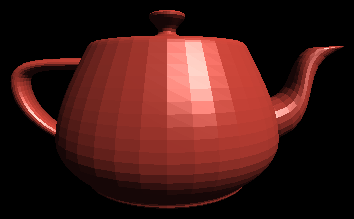
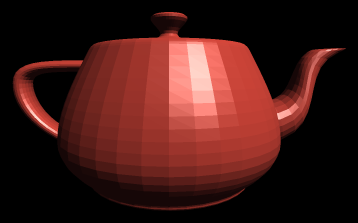
Regenerate README sample images with --aa 3
Claude-Session: https://claude.ai/code/session_01QgaXm8EeMVXvaZBWqVYRvN

diff --git a/README.md b/README.md
@@ -9,7 +9,7 @@ python main.py [normals|flat|gouraud|phong] [--mesh teapot.obj] [--size 512] [--
 ```
 Without `--out` the image opens in a window.
 
-`--aa N` renders at N times the resolution and averages down (supersampling). Edges get smooth, but render time grows as N².
+`--aa N` renders at N times the resolution and averages down (supersampling). Edges get smooth, but render time grows as N². Sample images below use `--size 512 --aa 3`, cropped.
 
 | Flat | Blinn-Phong | Normals |
 |:---:|:---:|:---:|
